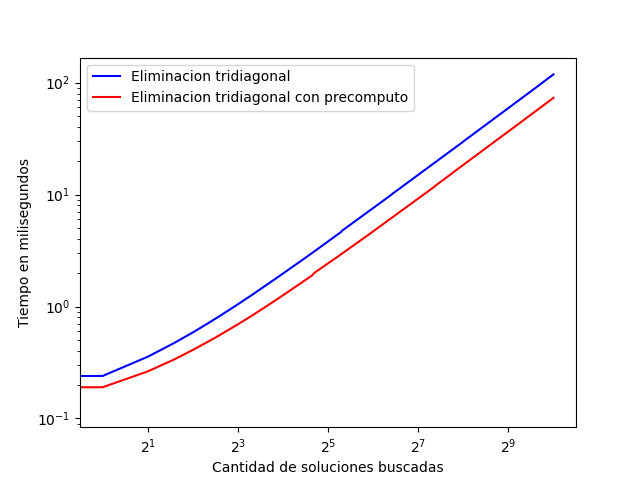
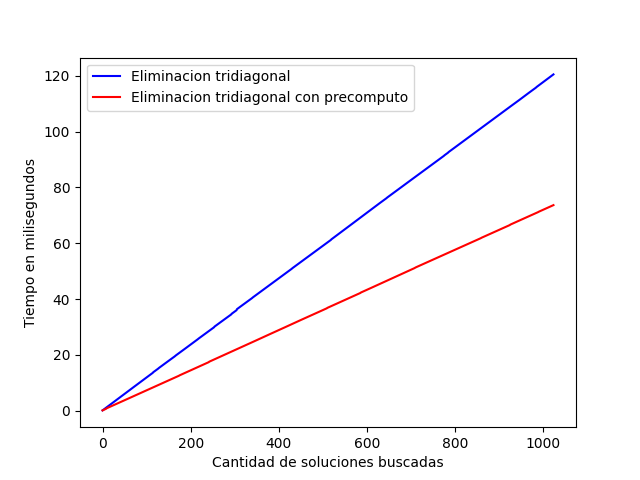
Plot sin log para tridiagonales

diff --git a/tp1/experimentos.py b/tp1/experimentos.py
@@ -190,8 +190,8 @@ def plot_tridiagonal_vs_precomputo():
     
     plt.ylabel('Tiempo en milisegundos')
     plt.xlabel('Cantidad de soluciones buscadas')
-    plt.yscale("log",base=10)
-    plt.xscale("log", base=2)
+    # plt.yscale("log",base=10)
+    # plt.xscale("log", base=2)
     plt.legend()
     plt.savefig('graficos/tridiagonal_vs_precomputo_tridiagonal.png')
     plt.show()
